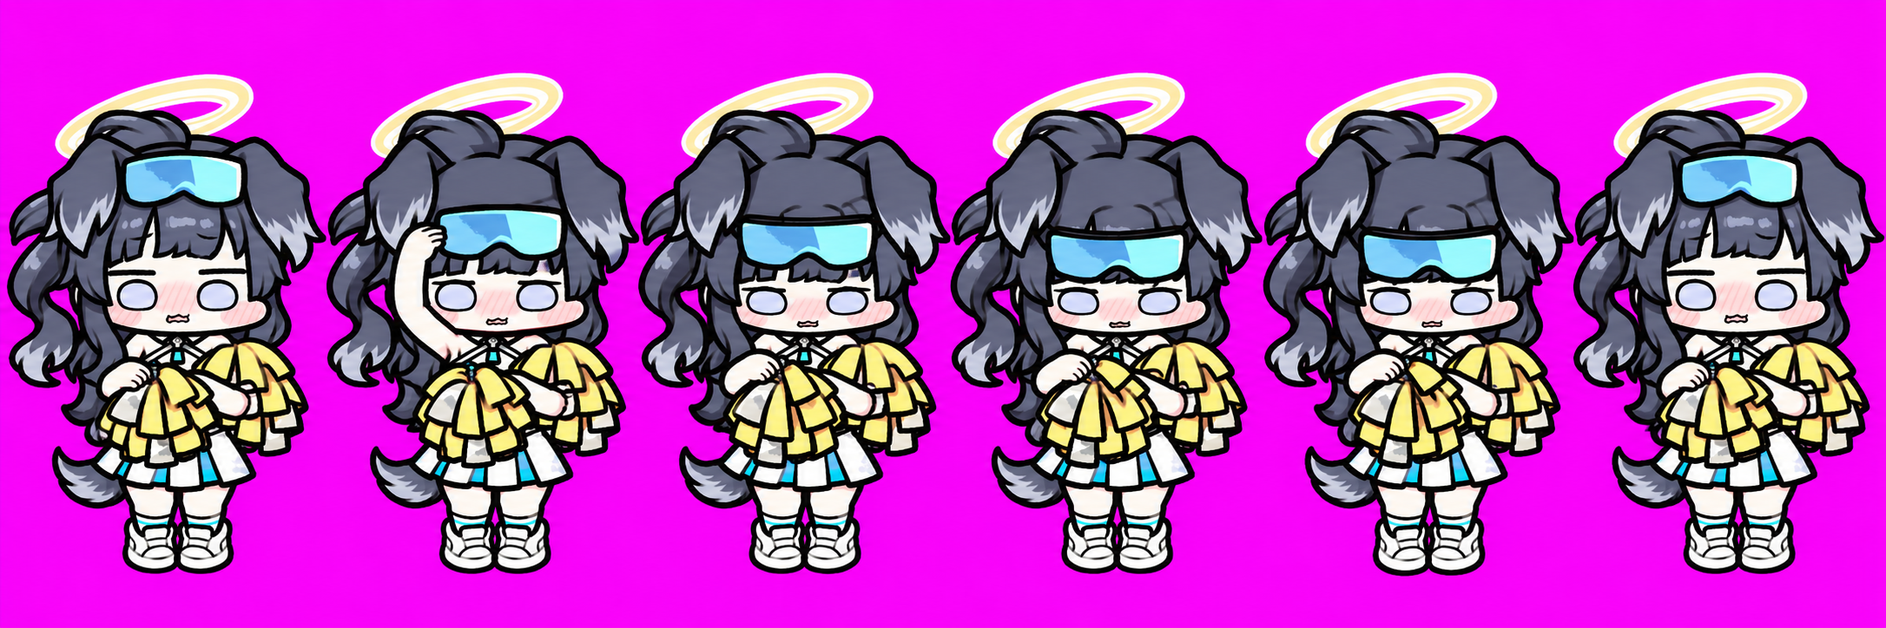
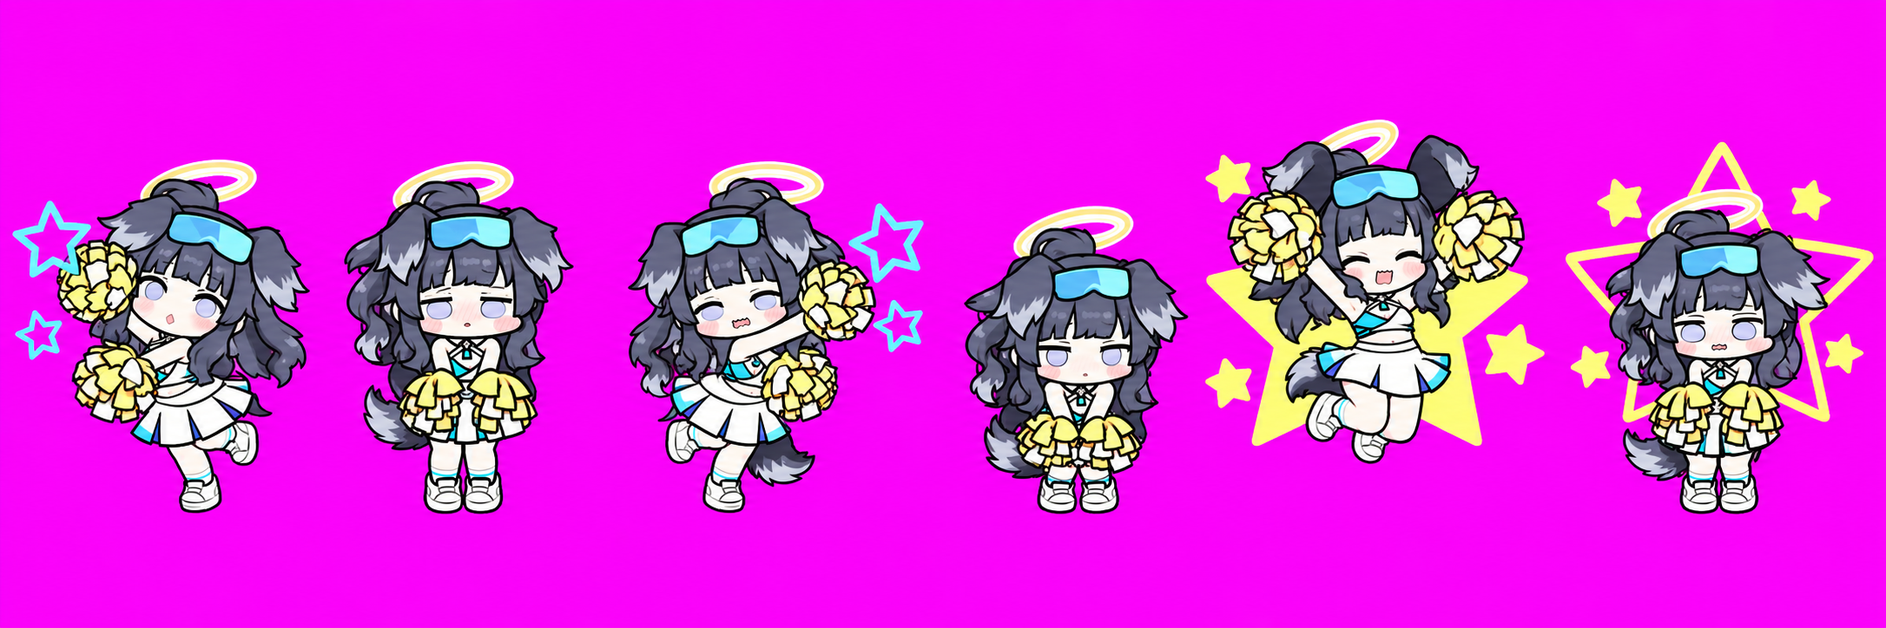
啦啦队响 v1.1

diff --git a/pets/hibiki-cheerleader-fullbody-handdrawn/creation/README.md b/pets/hibiki-cheerleader-fullbody-handdrawn/creation/README.md
@@ -1,46 +1,96 @@
-# 猫冢响 · 拉拉队服全身手绘的制作记录
+<p align="center"><sub>BEHIND THE PET</sub></p>
 
-## 形象与来源
+<h1 align="center">猫冢响 · 拉拉队服全身手绘 · 制作记录</h1>
 
-灰黑长发、狗耳与尾巴，青蓝护目镜搭配蓝白拉拉队服和黄白花球。用手绘粗线与二头身比例表现猫冢响的应援姿态。
+<p align="center">从一张参考图，到桌面上的小动作。</p>
 
-角色来自《蔚蓝档案 / Blue Archive》。参考插画与动作、表情截图由用户提供；部分插画作者尚未确认。角色及参考作品权利归原权利人。
+<p align="center"><b>v1.1 &nbsp; / &nbsp; 参考 · 提示词 · 高清原稿 · 成品</b></p>
 
-- [制作时保存的形象参考](references/reference-01.jpg)
-- [制作时保存的形象参考](references/reference-02.jpg)
+<p align="center"><a href="../README.md">看作品</a> &nbsp; · &nbsp; <a href="#动作设计与原稿">动作设计</a> &nbsp; · &nbsp; <a href="prompts/character.md">角色提示词</a> &nbsp; · &nbsp; <a href="../package/spritesheet.png">成品图集</a></p>
+
+## 形象从哪里来
+
+把猫冢响的拉拉队服形象做成一只二头身桌宠。灰黑长发、软软的狗耳、额前青蓝护目镜和淡金光环，配上蓝白制服与黄白花球；粗细略有起伏的深色线条、浅紫色眼睛和脸颊排线，保留她有些害羞的神情。
+
+角色为《蔚蓝档案 / Blue Archive》中的猫冢响（Nekozuka Hibiki）。制作参考包括收藏的角色插画、手绘风格图，以及应援动作和表情截图；部分插画作者尚未确认。桌宠通过 AI 辅助生成与后续整理制作；角色及参考作品的权利归原权利人。
+
+<table>
+<tr><td align="center" width="50%"><b>采用的主形象</b><br><a href="references/canonical-base.png"><img src="references/canonical-base.png" width="260" alt="采用的角色主形象参考"></a></td><td align="center" width="50%"><b>成品中的日常姿态</b><br><img src="../package/previews/idle.gif" width="192" alt="拉拉队响最终待机动作"></td></tr>
+</table>
+
+## 想保留下来的细节
+
+**完整的应援形象。** 狗耳、马尾、尾巴、护目镜与光环，围绕小小的全身轮廓保留下来。
+
+**花球贯穿日常。** 打招呼、等待、失落与检查，都由手中的两只花球参与表达。
+
+**认真为你加油。** 工作状态是一段应援舞：左右摆花球，蓄力跳起，蓝色与黄色星星跟着登场。
+
+## 制作思路
+
+先从参考中确定角色特征与手绘表达，保存[主形象提示词](prompts/character.md)和采用的角色主图。随后按动作分别生成连续姿态：日常动作保留各自的节奏，注视动作围绕同一套身体构图变化。
+
+生成阶段的高清图保存在 `materials/`，对应提示词保存在 `prompts/`。作品经过透明处理、选帧、位置与配色调整后，成为 `package/` 中的最终图集；下表把每个动作的想法、原稿和最终表现放在一起。原稿保留生成时的状态，部分可见用于去背景的纯色底。
+
+## 动作设计与原稿
+
+| 动作与成品 | 制作思路 | 提示词与高清原稿 |
+| :---: | --- | --- |
+| **待机**<br><img src="../package/previews/idle.gif" width="112" alt="拉拉队响待机"><br><sub>6 帧</sub> | 以主形象的低位花球站姿为起点，用眨眼与细小表情变化表现安静陪伴。 | [提示词](prompts/idle.md)<br>[高清原稿](../materials/idle.png) |
+| **向右跑**<br><img src="../package/previews/running-right.gif" width="112" alt="拉拉队响向右跑"><br><sub>8 帧</sub> | 保留手持花球的完整向右跑姿，步态、马尾和狗耳一起表达移动方向。 | [提示词](prompts/running-right.md)<br>[高清原稿](../materials/running-right.png) |
+| **向左跑**<br><img src="../package/previews/running-left.gif" width="112" alt="拉拉队响向左跑"><br><sub>8 帧</sub> | 保存独立的向左跑姿，让护目镜、制服与花球在侧向轮廓中仍然清楚可辨。 | [提示词](prompts/running-left.md)<br>[高清原稿](../materials/running-left.png) |
+| **挥手**<br><img src="../package/previews/waving.gif" width="112" alt="拉拉队响挥手"><br><sub>4 帧</sub> | 把一只花球举到脸旁再放下，让挥手成为符合拉拉队形象的招呼动作。 | [提示词](prompts/waving.md)<br>[高清原稿](../materials/waving.png) |
+| **跳跃**<br><img src="../package/previews/jumping.gif" width="112" alt="拉拉队响跳跃"><br><sub>5 帧</sub> | 抬起两只花球、离地、落回原处，形成一个短小直接的跳跃动作。 | [提示词](prompts/jumping.md)<br>[高清原稿](../materials/jumping.png) |
+| **失落**<br><img src="../package/previews/failed.gif" width="112" alt="拉拉队响失落"><br><sub>8 帧</sub> | 耳朵下垂、轻轻低头，再将花球拢到脸颊附近遮住害羞表情，停顿后逐步恢复。 | [提示词](prompts/failed.md)<br>[高清原稿](../materials/failed.png) |
+| **等待回应**<br><img src="../package/previews/waiting.gif" width="112" alt="拉拉队响等待回应"><br><sub>6 帧</sub> | 两只花球靠拢在低胸位置，抬头、歪头和眨眼表达期待；保持脸和嘴部可见。 | [提示词](prompts/waiting.md)<br>[高清原稿](../materials/waiting.png) |
+| **应援 · 工作状态**<br><img src="../package/previews/running.gif" width="112" alt="拉拉队响应援 · 工作状态"><br><sub>6 帧</sub> | 按“向左摆动 → 收回 → 向右摆动 → 蹲下蓄力 → 跳起 → 落地”组织六拍；侧摆配蓝色星星，跳起与落地配黄色星形。 | [提示词](prompts/running.md)<br>[高清原稿](../materials/running.png) |
+| **检查与思考**<br><img src="../package/previews/review.gif" width="112" alt="拉拉队响检查与思考"><br><sub>6 帧</sub> | 先查看两侧花球，再把画面右侧花球稍稍举到眼前，最后闭眼点头并回到低位站姿。 | [提示词](prompts/review.md)<br>[高清原稿](../materials/review.png) |
+| **十六方向注视**<br><img src="../package/previews/look-directions.gif" width="112" alt="拉拉队响十六方向注视"><br><sub>16 个方向姿态</sub> | 身体、花球与双脚保持正面站姿，脸部逐步俯仰和转向；浅紫色眼睛保持原来的画法，以头脸角度表达方向。从上方起，按每 22.5° 顺时针排列。 | [前八方向提示词](prompts/look-row-9.md)<br>[前八方向原稿](../materials/look-row-9.png)<br>[后八方向提示词](prompts/look-row-10.md)<br>[后八方向原稿](../materials/look-row-10.png) |
+
+### 应援动作的六拍
+
+**向左摆 → 收回 → 向右摆 → 蹲下蓄力 → 跳起 → 落地。**
+
+这段动作让“正在工作”变成一场小小的应援。蓝色星星出现在左右侧摆时；黄色星形在起跳时从身后展开，落地时延续余韵。花球、耳朵与尾巴跟随身体，保持原有的害羞表情和粗线条。它与普通的短跳跃分别保存，各有自己的节奏。
+
+## 参考收藏
+
+### 形象与画风
+
+- [角色形象参考](references/reference-01.jpg)
+- [手绘风格参考](references/reference-02.jpg)
 - [采用的角色主形象](references/canonical-base.png)
-- [后八方向的姿态参考](references/cardinal-left-focus-look-row-10.png)
-- [后八方向的角色特征参考](references/identity-board-look-row-10.png)
-- [前八方向的角色特征参考](references/identity-pair-look-row-9.png)
-- [采用的注视方向姿态参考](references/look-anchors-approved.png)
-- [透明高清主图](../materials/main.png)
-- [角色原始参考](references/source-illustrations/01.jpg)
-- [角色原始参考](references/source-illustrations/02.png)
-- [角色原始参考](references/source-illustrations/03.jpg)
-- [角色原始参考](references/source-illustrations/04.jpg)
-- [角色原始参考](references/source-illustrations/05.jpg)
-- [角色原始参考](references/source-illustrations/06.jpg)
+- [制作新动作时使用的既有图集](references/previous-design-atlas.png)
 
-[角色主形象提示词](prompts/character.md)记录整体风格、特征与构图要求。动作由保存的 imagegen 生成原稿制作，再进行去背景、选帧、位置调整和配色处理，形成[成品图集](../package/spritesheet.png)。
+### 应援动作与表情
 
-## 动作设计
+- [应援动作参考拼板](references/official-motion-board.png)
+- [应援表情参考拼板](references/official-expression-board.png)
 
-| 动作 | 制作思路 | 保存的资料 |
-| --- | --- | --- |
-| 待机 | 以安静呼吸、眨眼和细小表情作为日常姿态。 | [提示词](prompts/idle.md) · [高清原稿](../materials/idle.png) |
-| 向右跑 | 通过向右的步态表达移动，保留角色的发型和服装特征。 | [提示词](prompts/running-right.md) · [高清原稿](../materials/running-right.png) |
-| 向左跑 | 与向右跑形成对应的移动动作。 | [提示词](prompts/running-left.md) · [高清原稿](../materials/running-left.png) |
-| 挥手 | 以小幅挥手回应招呼，保持角色重心稳定。 | [提示词](prompts/waving.md) · [高清原稿](../materials/waving.png) |
-| 跳跃 | 表现起跳、腾空与落地的连续变化。 | [提示词](prompts/jumping.md) · [高清原稿](../materials/jumping.png) |
-| 失落 | 以克制的表情和姿态表达失落。 | [提示词](prompts/failed.md) · [高清原稿](../materials/failed.png) |
-| 等待 | 表现停顿、等待回应的状态。 | [提示词](prompts/waiting.md) · [高清原稿](../materials/waiting.png) |
-| 工作 / 应援 | 用花球摆动与跳跃表达应援。 | [提示词](prompts/running.md) · [高清原稿](../materials/running.png) |
-| 检查 / 思考 | 通过神情和小动作表现专注思考。 | [提示词](prompts/review.md) · [高清原稿](../materials/review.png) |
-| 注视方向 1–8 | 保留前八个方向的视线变化和角色特征。 | [提示词](prompts/look-row-9.md) · [高清原稿](../materials/look-row-9.png) |
-| 注视方向 9–16 | 补齐后八个方向，使十六方向形成完整一圈。 | [提示词](prompts/look-row-10.md) · [高清原稿](../materials/look-row-10.png) |
+### 注视方向
 
-提示词保留实际采用的文字。高清原稿保存生成阶段的细节，成品图集保存最终选择的帧与排列。
+- [采用的方向姿态参考](references/look-anchors-approved.png)
+- [前八方向角色特征板](references/identity-pair-look-row-9.png)
+- [后八方向角色特征板](references/identity-board-look-row-10.png)
+- [后八方向姿态参考](references/cardinal-left-focus-look-row-10.png)
 
-## v1.0
+[透明高清主图](../materials/main.png)也保存在素材目录，方便单独欣赏完整形象。
 
-建立拉拉队服全身手绘形象，完成九种动作和十六个注视方向。
+<details>
+<summary>展开原始插画与动作截图</summary>
+
+**角色插画**
+
+[参考 01](references/source-illustrations/01.jpg) · [参考 02](references/source-illustrations/02.png) · [参考 03](references/source-illustrations/03.jpg) · [参考 04](references/source-illustrations/04.jpg) · [参考 05](references/source-illustrations/05.jpg) · [参考 06](references/source-illustrations/06.jpg)
+
+**应援动作截图**
+
+[姿态 01](references/motion-stills/01.jpg) · [姿态 02](references/motion-stills/02.jpg) · [姿态 03](references/motion-stills/03.jpg) · [姿态 04](references/motion-stills/04.jpg) · [姿态 05](references/motion-stills/05.jpg) · [姿态 06](references/motion-stills/06.jpg) · [姿态 07](references/motion-stills/07.jpg) · [姿态 08](references/motion-stills/08.jpg) · [姿态 09](references/motion-stills/09.jpg)
+
+</details>
+
+## 当前作品
+
+v1.1 采用应援动作与表情参考，重新绘制工作状态：左右摆花球、收回蓄力、跳起和落地，并加入蓝色侧摆星星与黄色跳跃星形。其他动作沿用已有成品。
+
+[看完整作品](../README.md) · [高清原稿](../materials/) · [解包成品](../package/README.md)

diff --git a/README.md b/README.md
@@ -1,17 +1,81 @@
-# Hibiki · Cheerleader
+<p align="center"><sub>HIBIKI · CHEERLEADER PET</sub></p>
 
-把猫冢响的拉拉队服形象做成一只手绘桌宠，让花球、耳朵与小小的跳跃陪伴工作。
+<h1 align="center">猫冢响的桌面应援</h1>
 
-## 猫冢响 · 拉拉队服全身手绘
+<p align="center">有一点害羞，也会很认真地为你加油。</p>
 
-灰黑长发、狗耳与尾巴，青蓝护目镜搭配蓝白拉拉队服和黄白花球。用手绘粗线与二头身比例表现猫冢响的应援姿态。
+<p align="center"><b>全身手绘 &nbsp; / &nbsp; v1.1 &nbsp; / &nbsp; 09 种动作 &nbsp; / &nbsp; 16 个注视方向</b></p>
 
-![啦啦队响待机](pets/hibiki-cheerleader-fullbody-handdrawn/package/previews/idle.gif) ![啦啦队响挥手](pets/hibiki-cheerleader-fullbody-handdrawn/package/previews/waving.gif)
+<p align="center"><a href="#认识响">认识响</a> &nbsp; · &nbsp; <a href="#动作剧场">动作剧场</a> &nbsp; · &nbsp; <a href="pets/hibiki-cheerleader-fullbody-handdrawn/creation/README.md">制作记录</a> &nbsp; · &nbsp; <a href="https://github.com/MIBXR/hibiki-pet/releases/download/v1.1-hibiki-cheerleader-fullbody-handdrawn/hibiki-cheerleader-fullbody-handdrawn-portable.zip">下载 ZIP</a></p>
 
-**v1.0** · [作品与动作](pets/hibiki-cheerleader-fullbody-handdrawn/) · [制作记录](pets/hibiki-cheerleader-fullbody-handdrawn/creation/README.md) · [高清原稿](pets/hibiki-cheerleader-fullbody-handdrawn/materials/) · [下载便携包](https://github.com/MIBXR/pet-hibiki-cheerleader-fullbody-handdrawn/releases/tag/v1.0-hibiki-cheerleader-fullbody-handdrawn)
+<p align="center"><img src="pets/hibiki-cheerleader-fullbody-handdrawn/package/previews/idle.gif" width="192" alt="猫冢响安静待机"><img src="pets/hibiki-cheerleader-fullbody-handdrawn/package/previews/running.gif" width="192" alt="猫冢响摆动花球与星星应援"><img src="pets/hibiki-cheerleader-fullbody-handdrawn/package/previews/waving.gif" width="192" alt="猫冢响举起花球打招呼"></p>
 
-## 版本与来源
+## 认识响
 
-[全部版本](https://github.com/MIBXR/pet-hibiki-cheerleader-fullbody-handdrawn/releases)记录每款宠物的发布。对应提交保存那个版本的制作资料与作品文件。
+把猫冢响的拉拉队服形象做成一只二头身桌宠。灰黑长发、软软的狗耳、额前青蓝护目镜和淡金光环，配上蓝白制服与黄白花球；粗细略有起伏的深色线条、浅紫色眼睛和脸颊排线，保留她有些害羞的神情。
 
-角色来自《蔚蓝档案 / Blue Archive》。参考插画与动作、表情截图由用户提供；部分插画作者尚未确认。角色及参考作品权利归原权利人。
+她平时把花球放低，安静眨眼；等你时把两只花球拢到胸前，失落时又会拿它们遮住脸。轮到工作状态，就认真跳起一段带星星的应援舞。
+
+| 形象 | 表情 | 动作里的小道具 |
+| --- | --- | --- |
+| 二头身全身、狗耳与马尾、蓝白拉拉队服 | 浅紫眼睛、脸颊排线与害羞的小嘴 | 两只黄白花球、额前护目镜、淡金光环 |
+
+## 动作剧场
+
+九种日常动作全部展开，并附完整的十六方向注视。点击动图可以单独查看。
+
+<table>
+<tr>
+<td align="center" width="33%"><b>01 · 待机</b><br><a href="pets/hibiki-cheerleader-fullbody-handdrawn/package/previews/idle.gif"><img src="pets/hibiki-cheerleader-fullbody-handdrawn/package/previews/idle.gif" width="192" alt="拉拉队响：待机动作预览"></a><br><sub>花球放低，带着害羞的神情眨眼。</sub></td>
+<td align="center" width="33%"><b>02 · 向右跑</b><br><a href="pets/hibiki-cheerleader-fullbody-handdrawn/package/previews/running-right.gif"><img src="pets/hibiki-cheerleader-fullbody-handdrawn/package/previews/running-right.gif" width="192" alt="拉拉队响：向右跑动作预览"></a><br><sub>抱好花球，朝右迈开小步。</sub></td>
+<td align="center" width="33%"><b>03 · 向左跑</b><br><a href="pets/hibiki-cheerleader-fullbody-handdrawn/package/previews/running-left.gif"><img src="pets/hibiki-cheerleader-fullbody-handdrawn/package/previews/running-left.gif" width="192" alt="拉拉队响：向左跑动作预览"></a><br><sub>朝左出发，耳朵和马尾跟着动。</sub></td>
+</tr>
+<tr>
+<td align="center" width="33%"><b>04 · 挥手</b><br><a href="pets/hibiki-cheerleader-fullbody-handdrawn/package/previews/waving.gif"><img src="pets/hibiki-cheerleader-fullbody-handdrawn/package/previews/waving.gif" width="192" alt="拉拉队响：挥手动作预览"></a><br><sub>举起一只花球，和你打招呼。</sub></td>
+<td align="center" width="33%"><b>05 · 跳跃</b><br><a href="pets/hibiki-cheerleader-fullbody-handdrawn/package/previews/jumping.gif"><img src="pets/hibiki-cheerleader-fullbody-handdrawn/package/previews/jumping.gif" width="192" alt="拉拉队响：跳跃动作预览"></a><br><sub>花球一起抬起，轻轻跳一下。</sub></td>
+<td align="center" width="33%"><b>06 · 失落</b><br><a href="pets/hibiki-cheerleader-fullbody-handdrawn/package/previews/failed.gif"><img src="pets/hibiki-cheerleader-fullbody-handdrawn/package/previews/failed.gif" width="192" alt="拉拉队响：失落动作预览"></a><br><sub>低下头，用花球挡住害羞的脸。</sub></td>
+</tr>
+<tr>
+<td align="center" width="33%"><b>07 · 等待回应</b><br><a href="pets/hibiki-cheerleader-fullbody-handdrawn/package/previews/waiting.gif"><img src="pets/hibiki-cheerleader-fullbody-handdrawn/package/previews/waiting.gif" width="192" alt="拉拉队响：等待回应动作预览"></a><br><sub>把花球拢在胸前，抬头等回应。</sub></td>
+<td align="center" width="33%"><b>08 · 应援 · 工作状态</b><br><a href="pets/hibiki-cheerleader-fullbody-handdrawn/package/previews/running.gif"><img src="pets/hibiki-cheerleader-fullbody-handdrawn/package/previews/running.gif" width="192" alt="拉拉队响：应援 · 工作状态动作预览"></a><br><sub>左右摆花球，跳起时亮出星星。</sub></td>
+<td align="center" width="33%"><b>09 · 检查与思考</b><br><a href="pets/hibiki-cheerleader-fullbody-handdrawn/package/previews/review.gif"><img src="pets/hibiki-cheerleader-fullbody-handdrawn/package/previews/review.gif" width="192" alt="拉拉队响：检查与思考动作预览"></a><br><sub>看看两只花球，再满意地点头。</sub></td>
+</tr>
+</table>
+
+<table>
+<tr>
+<td align="center" width="33%"><b>10 · 十六方向注视</b><br><a href="pets/hibiki-cheerleader-fullbody-handdrawn/package/previews/look-directions.gif"><img src="pets/hibiki-cheerleader-fullbody-handdrawn/package/previews/look-directions.gif" width="192" alt="拉拉队响：十六方向注视依次展示"></a></td>
+<td><b>抬头、转向，再低头看看。</b><br><br>身体、花球与双脚保持正面站姿，脸部逐步俯仰和转向；浅紫色眼睛保持原来的画法，以头脸角度表达方向。<br><br><sub>GIF 从上方开始，按顺时针依次展示 16 个方向。实际跟随与动作触发由桌宠应用决定。</sub></td>
+</tr>
+</table>
+
+## 一段小小的应援
+
+**向左摆动 → 收回 → 向右摆动 → 蹲下蓄力 → 跳起 → 落地。**
+
+v1.1 的工作动作按这六拍展开。侧摆时出现蓝色星星，跳起时黄色星形在身后绽开；耳朵、马尾和花球一起跟随动作，最后回到可以继续循环的站姿。
+
+[看看这段动作的提示词](pets/hibiki-cheerleader-fullbody-handdrawn/creation/prompts/running.md) · [查看高清生成原稿](pets/hibiki-cheerleader-fullbody-handdrawn/materials/running.png) · [查看动作与表情参考](pets/hibiki-cheerleader-fullbody-handdrawn/creation/README.md#应援动作与表情)
+
+## 创作收藏
+
+作品由 Codex 与 AI 生图辅助完成。这里同时保存成品与制作时采用的资料：从角色参考和每个动作的想法，到高清原稿，再到透明图集。
+
+| 想看什么 | 从这里开始 |
+| --- | --- |
+| 制作来源、参考与每个动作的想法 | [制作记录](pets/hibiki-cheerleader-fullbody-handdrawn/creation/README.md) |
+| 实际采用的角色与动作提示词 | [提示词收藏](pets/hibiki-cheerleader-fullbody-handdrawn/creation/prompts/) |
+| 生成阶段保留的高清动作原稿 | [高清素材](pets/hibiki-cheerleader-fullbody-handdrawn/materials/) |
+| 最终图集、桌宠信息与逐动作 GIF | [解包成品](pets/hibiki-cheerleader-fullbody-handdrawn/package/README.md) |
+
+[透明高清主图](pets/hibiki-cheerleader-fullbody-handdrawn/materials/main.png)保留了完整的角色形象，可以单独欣赏线条、服装与花球细节。
+
+## 带她回到桌面
+
+**[下载 v1.1 便携包](https://github.com/MIBXR/hibiki-pet/releases/download/v1.1-hibiki-cheerleader-fullbody-handdrawn/hibiki-cheerleader-fullbody-handdrawn-portable.zip)** · [查看发布页](https://github.com/MIBXR/hibiki-pet/releases/tag/v1.1-hibiki-cheerleader-fullbody-handdrawn) · [浏览全部版本](https://github.com/MIBXR/hibiki-pet/releases)
+
+便携包包含 sprite v2 正式图集、必要的桌宠信息和逐动作 GIF；交给支持该格式的桌宠应用或 Agent 导入。每个已发布版本都保留了对应的作品提交与下载包。
+
+## 来源与署名
+
+角色为《蔚蓝档案 / Blue Archive》中的猫冢响（Nekozuka Hibiki）。制作参考包括收藏的角色插画、手绘风格图，以及应援动作和表情截图；部分插画作者尚未确认。桌宠通过 AI 辅助生成与后续整理制作；角色及参考作品的权利归原权利人。

diff --git a/pets/hibiki-cheerleader-fullbody-handdrawn/creation/prompts/running.md b/pets/hibiki-cheerleader-fullbody-handdrawn/creation/prompts/running.md
@@ -1,12 +1,16 @@
-Use case: stylized-concept. Asset: one SIX-frame horizontal animation strip, state running meaning active WORK.
-Input 1 canonical base is authoritative for Hibiki identity, scale, outfit, props and line style. Input 2 reinforces identity and solid pale lavender eyes. Input 3 supports thick rough hand-drawn chibi style only; do not copy other characters/outfits. Input 4 is invisible SIX-slot spacing guidance only, never render its lines.
+Use case: identity-preserve; hand-drawn animated sprite strip.
+Create one coherent horizontal SIX-frame cheer cycle for the existing Hibiki cheerleader pet. This is only her running/active-work animation, not a complete atlas. Flat pure magenta #FF00FF background, no transparency in the source strip. Prefer a 3:1 source canvas with generous magenta gutters between all six complete pose groups and safe outer margins. No visible panels, boxes, labels, text or guide marks.
 
-Exactly SIX separated, complete full-body poses in ONE horizontal left-to-right row on flat pure magenta #FF00FF. One centered pet per invisible equal-width slot; generous safe margin around hair, overlapping halo, held pom-poms, tail and shoes. Keep head/body size, torso center, waist, skirt, both feet and shoe baseline stable in all six. Feet remain firmly planted together, front-facing. Motion comes from focused head pitch, goggles and purposeful attached hands; no foot running, walking, lifted knees, long steps or body travel.
+REFERENCE ROLES: image1 is the freshly fetched existing pet atlas, authoritative identity/proportions/palette; image2 is the official six-pose motion board, ONLY for gestures and ear/tail follow-through; image3 is official expression/finale closeups, ONLY mouth shapes and star effect concept; image4 is the invisible six-slot layout guide, for order/separation only; image5 is the large hand-drawn canonical base and PRIMARY STYLE AUTHORITY. The new art must look like image5 and the existing atlas, NOT the official 3D game models or realistic anime faces. Preserve rough thick slightly irregular charcoal-black outlines, flat restrained colors, warm cream rounded-square chibi face, two-head full-body proportions, SOLID pale lavender-gray eye disks with absolutely NO pupils or added iris highlights, pink hatched blush, slate gray-black chunky hair highlights, blunt bangs, long ponytail, floppy gray-tipped DOG ears, cyan goggles on forehead, compact overlapping pale-gold ring halo, modest compact blue-white cross-strap top, white pleated skirt with cyan panels, white chunky sneakers, gray dog tail and exactly two yellow-white ribbon pom-poms physically held in her hands. No hair restyle, no outfit restyle, no smooth 3D shading, no anatomical breast contours.
 
-Hibiki is deliberately fixing the handle/ribbon base of her EXISTING yellow-white pom-pom. One hand holds that working pom-pom near the upper waist. Her other forearm securely cradles the second pom-pom against her body so that arm's small fingers can adjust the first pom-pom. BOTH pom-poms remain physically held or cradled and touching hand/forearm at every instant. Show small simple readable attached hands, never extra hands.
+USER-REQUESTED SPECIAL EFFECTS ARE INTENTIONAL: include detached BLUE outlined stars on the side swings, and a MUCH LARGER YELLOW five-point star expanding BEHIND the character during the jump finale, accompanied by a few smaller stars. Draw effects as clean, opaque, hand-inked flat-color star shapes in the same drawing style. Hollow blue stars have magenta removable interiors. No diffuse glow, motion blur, speed streaks, dust, shadows, confetti dots, game UI, stadium, crowd, pole, floor, floating punctuation or new props. The screenshots' game setting is not part of the sprite. Keep every complete effect inside its own pose group and invisible cell envelope. Small stars must be bold/readable rather than tiny specks. Keep the large yellow star overlapping the character silhouette from BEHIND, never covering her face or outfit. Reserve clear space beneath effects so the shoes remain the lowest part of each pose.
 
-Six chronological poses: 1 goggles on forehead; head starts looking down toward the working pom-pom, hands prepare at its ribbon base. 2 the free small fingertips lower the SAME cyan goggles just slightly toward the brow, while the same forearm still cradles its second pom-pom. Keep solid pale lavender eyes visible through or immediately below the goggles. 3 focused fingers pinch the existing ribbon/handle base of the first pom-pom, visibly beginning an adjustment. 4 fingers turn/straighten that same ribbon base, a small purposeful change in hand position, concentrated tiny mouth. 5 she studies the correction with the adjusting fingers still lightly in contact. 6 release the adjusting fingertips, goggles return near forehead, hands/head settle nearly to pose 1. This is active hand manipulation, not simply inspecting or nodding.
+EXACT LEFT-TO-RIGHT SIX-BEAT STORYBOARD (LEFT and RIGHT mean the viewer/canvas edges):
+1. LEFT SWING: torso leans mildly canvas-left, BOTH held pompoms extend toward LEFT at two different heights, one near the left side of her head and the other toward chest/waist height. One knee bends behind in a planted cheer pose, not traveling/running. Mouth is a tiny open DIAMOND. Eyes retain original solid lavender construction, shy brows and blush. Floppy ears and tail trail the swing with soft motion. TWO blue outlined stars appear beside the LEFT swing, clearly near the left pompoms.
+2. FIRST RETRACT: return to centered grounded body, elbows fold, bring the pompoms together in front of the waist; head lowers slightly, knees relax. Diamond mouth closes to a tiny mark. Ears and tail rebound toward rest. Left blue stars become smaller/lighter or fade; no yellow burst yet.
+3. RIGHT SWING: torso leans mildly canvas-right, BOTH held pompoms extend toward RIGHT in a high/low arrangement, opposite knee bends behind. Mouth is a shy OPEN shape, small softly irregular rounded/wavy opening, visibly different from the left diamond; stronger blush and gentle worried/shy brows. Ears and tail lag toward the opposite side. TWO blue outlined stars appear beside the RIGHT swing. Do NOT repeat the left pose.
+4. SECOND RETRACT / CROUCH: centered forward-facing body, pompoms held together LOW in front, head bows and knees visibly compress for a jump. Feet remain on the grounded baseline. Ears droop/compress and tail curls with the crouch. Right blue stars diminish and fade away. Mouth is a tiny closed mark. No large star yet.
+5. BIG JUMP: a real upward lift, both shoes clearly ABOVE the resting ground; knees tuck, one leg may bend more than the other. Raise BOTH pompoms in a celebratory wide V beside/above head. Dog ears lift and spring, ponytail/tail lag then bounce. A shy open cheering mouth and blush, original eye construction (gentle closed-eye arcs acceptable for this excited instant). A large YELLOW five-point STAR blooms BEHIND her torso/head, its tips visible around her silhouette, with a few smaller yellow stars around it. Preserve the same head/body drawing scale; shorten bent legs physically rather than shrinking the character. Leave enough top clearance so halo, ears and pompoms are complete.
+6. LANDING / EXPANDED STAR AFTERBEAT: feet return to the SAME grounded baseline as beats1-4, knees absorb landing and hands/pompoms lower toward the centered rest pose ready to swing left again. Ears flop outward then settle, tail overshoots softly. Mouth returns toward the original tiny shy w-shape. The large yellow star spreads MORE WIDELY behind her than in beat5, becoming a paler yellow outline/expanded shape, and the smaller stars spread around it and fade. The character stays fully readable in front. Keep all star tips above the feet and safely inside the pose envelope. This landing is necessary for a seamless recurring cheer cycle.
 
-Preserve exact canonical compact two-head chibi proportions, warm cream rounded-square face, gray-black blunt bangs and long wavy ponytail, BOTH gray floppy dog ears, gray dog tail, pale lavender solid circular eyes WITHOUT pupils, pink hatched blush, cyan wraparound goggles, compact gold oval halo overlapping hair/ear silhouette, blue-white cross-strap cheer top, white-cyan pleated skirt, chunky white sneakers, yellow-white ribbon pom-poms. Match very thick slightly irregular black hand-drawn ink, flat restrained palette and chunky gray hair highlights.
-
-No new tools, wrenches, laptop, screens, papers, magnifying glass, detached props, loose ribbons, text, labels, guide boxes/marks, floor, shadows, glow, motion lines, icons, sweat, tears, scenery or gradients. Every non-background pixel belongs to the connected complete pet.
+GEOMETRY: exactly SIX complete characters in this order. One shared character scale and head size across all six. Same imaginary grounded shoe line for beats1,2,3,4,6; beat5 is physically airborne above it. Crouch and bent knees must change pose, not raster scale. Body remains within a compact forward-facing cheer family with natural slight lean; do not turn into a side-view walking gait. Hands and flower balls stay connected. Approximate equal six-slot spacing; every pose plus all its stars must be separated from neighbors by generous pure-magenta-only gutters. No overlap/touch between neighboring pose groups, no source-edge clipping. Source height leaves top room for the jump and widest star expansion. Keep stars compact enough that the visible character remains the SAME readable size as the current pet after native 192x208 assembly.

diff --git a/pets/hibiki-cheerleader-fullbody-handdrawn/README.md b/pets/hibiki-cheerleader-fullbody-handdrawn/README.md
@@ -1,16 +1,73 @@
-# 猫冢响 · 拉拉队服全身手绘
+<p align="center"><sub>HIBIKI · CHEERLEADER</sub></p>
 
-灰黑长发、狗耳与尾巴，青蓝护目镜搭配蓝白拉拉队服和黄白花球。用手绘粗线与二头身比例表现猫冢响的应援姿态。
+<h1 align="center">猫冢响 · 拉拉队服全身手绘</h1>
 
-**v1.0** · [下载便携包](https://github.com/MIBXR/pet-hibiki-cheerleader-fullbody-handdrawn/releases/tag/v1.0-hibiki-cheerleader-fullbody-handdrawn) · [制作记录与提示词](creation/README.md) · [高清素材](materials/) · [成品文件](package/)
+<p align="center">有一点害羞，也会很认真地为你加油。</p>
 
-| 动作 | 预览 |
+<p align="center"><b>v1.1 &nbsp; / &nbsp; 9 种日常动作 &nbsp; / &nbsp; 16 个注视方向</b></p>
+
+<p align="center"><a href="#全部动作">完整动作</a> &nbsp; · &nbsp; <a href="creation/README.md">创作记录</a> &nbsp; · &nbsp; <a href="materials/">高清原稿</a> &nbsp; · &nbsp; <a href="https://github.com/MIBXR/hibiki-pet/releases/download/v1.1-hibiki-cheerleader-fullbody-handdrawn/hibiki-cheerleader-fullbody-handdrawn-portable.zip">下载 ZIP</a></p>
+
+<p align="center"><img src="package/previews/idle.gif" width="192" alt="拉拉队响待机"><img src="package/previews/running.gif" width="192" alt="拉拉队响工作状态"></p>
+
+把猫冢响的拉拉队服形象做成一只二头身桌宠。灰黑长发、软软的狗耳、额前青蓝护目镜和淡金光环，配上蓝白制服与黄白花球；粗细略有起伏的深色线条、浅紫色眼睛和脸颊排线，保留她有些害羞的神情。
+
+## 她的模样
+
+**完整的应援形象。** 狗耳、马尾、尾巴、护目镜与光环，围绕小小的全身轮廓保留下来。
+
+**花球贯穿日常。** 打招呼、等待、失落与检查，都由手中的两只花球参与表达。
+
+**认真为你加油。** 工作状态是一段应援舞：左右摆花球，蓄力跳起，蓝色与黄色星星跟着登场。
+
+## 全部动作
+
+九种日常动作全部展开，随后是一圈完整的注视方向。点击任意动图可以单独查看。
+
+<table>
+<tr>
+<td align="center" width="33%"><b>01 · 待机</b><br><a href="package/previews/idle.gif"><img src="package/previews/idle.gif" width="192" alt="拉拉队响：待机动作预览"></a><br><sub>花球放低，带着害羞的神情眨眼。</sub></td>
+<td align="center" width="33%"><b>02 · 向右跑</b><br><a href="package/previews/running-right.gif"><img src="package/previews/running-right.gif" width="192" alt="拉拉队响：向右跑动作预览"></a><br><sub>抱好花球，朝右迈开小步。</sub></td>
+<td align="center" width="33%"><b>03 · 向左跑</b><br><a href="package/previews/running-left.gif"><img src="package/previews/running-left.gif" width="192" alt="拉拉队响：向左跑动作预览"></a><br><sub>朝左出发，耳朵和马尾跟着动。</sub></td>
+</tr>
+<tr>
+<td align="center" width="33%"><b>04 · 挥手</b><br><a href="package/previews/waving.gif"><img src="package/previews/waving.gif" width="192" alt="拉拉队响：挥手动作预览"></a><br><sub>举起一只花球，和你打招呼。</sub></td>
+<td align="center" width="33%"><b>05 · 跳跃</b><br><a href="package/previews/jumping.gif"><img src="package/previews/jumping.gif" width="192" alt="拉拉队响：跳跃动作预览"></a><br><sub>花球一起抬起，轻轻跳一下。</sub></td>
+<td align="center" width="33%"><b>06 · 失落</b><br><a href="package/previews/failed.gif"><img src="package/previews/failed.gif" width="192" alt="拉拉队响：失落动作预览"></a><br><sub>低下头，用花球挡住害羞的脸。</sub></td>
+</tr>
+<tr>
+<td align="center" width="33%"><b>07 · 等待回应</b><br><a href="package/previews/waiting.gif"><img src="package/previews/waiting.gif" width="192" alt="拉拉队响：等待回应动作预览"></a><br><sub>把花球拢在胸前，抬头等回应。</sub></td>
+<td align="center" width="33%"><b>08 · 应援 · 工作状态</b><br><a href="package/previews/running.gif"><img src="package/previews/running.gif" width="192" alt="拉拉队响：应援 · 工作状态动作预览"></a><br><sub>左右摆花球，跳起时亮出星星。</sub></td>
+<td align="center" width="33%"><b>09 · 检查与思考</b><br><a href="package/previews/review.gif"><img src="package/previews/review.gif" width="192" alt="拉拉队响：检查与思考动作预览"></a><br><sub>看看两只花球，再满意地点头。</sub></td>
+</tr>
+</table>
+
+<table>
+<tr>
+<td align="center" width="33%"><b>10 · 十六方向注视</b><br><a href="package/previews/look-directions.gif"><img src="package/previews/look-directions.gif" width="192" alt="拉拉队响：十六方向注视依次展示"></a></td>
+<td><b>抬头、转向，再低头看看。</b><br><br>身体、花球与双脚保持正面站姿，脸部逐步俯仰和转向；浅紫色眼睛保持原来的画法，以头脸角度表达方向。<br><br><sub>GIF 从上方开始，按顺时针依次展示 16 个方向。实际跟随与动作触发由桌宠应用决定。</sub></td>
+</tr>
+</table>
+
+## 这一版的小细节
+
+v1.1 采用应援动作与表情参考，重新绘制工作状态：左右摆花球、收回蓄力、跳起和落地，并加入蓝色侧摆星星与黄色跳跃星形。其他动作沿用已有成品。
+
+[查看 v1.1 发布页](https://github.com/MIBXR/hibiki-pet/releases/tag/v1.1-hibiki-cheerleader-fullbody-handdrawn) · [浏览全部发布](https://github.com/MIBXR/hibiki-pet/releases)
+
+## 从参考到成品
+
+这里保留角色来源、采用的提示词、生成原稿和最终成品，方便沿着一个动作继续看下去。
+
+| 想看什么 | 从这里开始 |
 | --- | --- |
-| 待机 | ![待机](package/previews/idle.gif) |
-| 挥手 | ![挥手](package/previews/waving.gif) |
-| 应援 | ![应援](package/previews/running.gif) |
-| 十六方向注视 | ![十六方向注视](package/previews/look-directions.gif) |
+| 制作来源、参考与每个动作的想法 | [制作记录](creation/README.md) |
+| 实际采用的角色与动作提示词 | [提示词收藏](creation/prompts/) |
+| 生成阶段保留的高清动作原稿 | [高清素材](materials/) |
+| 最终图集、桌宠信息与逐动作 GIF | [解包成品](package/README.md) |
 
-建立拉拉队服全身手绘形象，完成九种动作和十六个注视方向。
+## 来源与署名
 
-角色来自《蔚蓝档案 / Blue Archive》。参考插画与动作、表情截图由用户提供；部分插画作者尚未确认。角色及参考作品权利归原权利人。
+角色为《蔚蓝档案 / Blue Archive》中的猫冢响（Nekozuka Hibiki）。制作参考包括收藏的角色插画、手绘风格图，以及应援动作和表情截图；部分插画作者尚未确认。桌宠通过 AI 辅助生成与后续整理制作；角色及参考作品的权利归原权利人。
+
+[返回作品首页](../../README.md)

diff --git a/pets/hibiki-cheerleader-fullbody-handdrawn/package/README.md b/pets/hibiki-cheerleader-fullbody-handdrawn/package/README.md
@@ -1,11 +1,59 @@
-# 猫冢响 · 拉拉队服全身手绘
+<p align="center"><sub>PORTABLE PET · FINISHED ARTWORK</sub></p>
 
-v1.0 · 灰黑长发、狗耳与尾巴，青蓝护目镜搭配蓝白拉拉队服和黄白花球。用手绘粗线与二头身比例表现猫冢响的应援姿态。
+<h1 align="center">猫冢响 · 拉拉队服全身手绘</h1>
 
-本包包含可导入的 `spritesheet.png`、名称与描述等信息 `pet.json`，以及 `previews/` 中的逐动作 GIF。
+<p align="center">有一点害羞，也会很认真地为你加油。</p>
 
-图集采用 sprite v2：1536×2288 像素，8 列×11 行，单格 192×208，包含九种动作和十六个注视方向。作品版本 v1.0 与图集协议版本是两回事。
+<p align="center"><b>v1.1 &nbsp; / &nbsp; sprite v2 &nbsp; / &nbsp; 透明 PNG + 动作 GIF</b></p>
 
-将本包交给支持 sprite v2 的桌宠应用或 Agent，读取 `pet.json` 后导入原始 PNG。是否启用由你选择；GIF 用于观看动作。
+<p align="center"><a href="#动作预览">全部动作</a> &nbsp; · &nbsp; <a href="spritesheet.png">正式图集</a> &nbsp; · &nbsp; <a href="pet.json">桌宠信息</a> &nbsp; · &nbsp; <a href="https://github.com/MIBXR/hibiki-pet/releases/tag/v1.1-hibiki-cheerleader-fullbody-handdrawn">发布页</a></p>
 
-角色来自《蔚蓝档案 / Blue Archive》。参考插画与动作、表情截图由用户提供；部分插画作者尚未确认。角色及参考作品权利归原权利人。
+把猫冢响的拉拉队服形象做成一只二头身桌宠。灰黑长发、软软的狗耳、额前青蓝护目镜和淡金光环，配上蓝白制服与黄白花球；粗细略有起伏的深色线条、浅紫色眼睛和脸颊排线，保留她有些害羞的神情。
+
+## 动作预览
+
+<table>
+<tr>
+<td align="center" width="33%"><b>01 · 待机</b><br><a href="previews/idle.gif"><img src="previews/idle.gif" width="144" alt="拉拉队响：待机动作预览"></a><br><sub>花球放低，带着害羞的神情眨眼。</sub></td>
+<td align="center" width="33%"><b>02 · 向右跑</b><br><a href="previews/running-right.gif"><img src="previews/running-right.gif" width="144" alt="拉拉队响：向右跑动作预览"></a><br><sub>抱好花球，朝右迈开小步。</sub></td>
+<td align="center" width="33%"><b>03 · 向左跑</b><br><a href="previews/running-left.gif"><img src="previews/running-left.gif" width="144" alt="拉拉队响：向左跑动作预览"></a><br><sub>朝左出发，耳朵和马尾跟着动。</sub></td>
+</tr>
+<tr>
+<td align="center" width="33%"><b>04 · 挥手</b><br><a href="previews/waving.gif"><img src="previews/waving.gif" width="144" alt="拉拉队响：挥手动作预览"></a><br><sub>举起一只花球，和你打招呼。</sub></td>
+<td align="center" width="33%"><b>05 · 跳跃</b><br><a href="previews/jumping.gif"><img src="previews/jumping.gif" width="144" alt="拉拉队响：跳跃动作预览"></a><br><sub>花球一起抬起，轻轻跳一下。</sub></td>
+<td align="center" width="33%"><b>06 · 失落</b><br><a href="previews/failed.gif"><img src="previews/failed.gif" width="144" alt="拉拉队响：失落动作预览"></a><br><sub>低下头，用花球挡住害羞的脸。</sub></td>
+</tr>
+<tr>
+<td align="center" width="33%"><b>07 · 等待回应</b><br><a href="previews/waiting.gif"><img src="previews/waiting.gif" width="144" alt="拉拉队响：等待回应动作预览"></a><br><sub>把花球拢在胸前，抬头等回应。</sub></td>
+<td align="center" width="33%"><b>08 · 应援 · 工作状态</b><br><a href="previews/running.gif"><img src="previews/running.gif" width="144" alt="拉拉队响：应援 · 工作状态动作预览"></a><br><sub>左右摆花球，跳起时亮出星星。</sub></td>
+<td align="center" width="33%"><b>09 · 检查与思考</b><br><a href="previews/review.gif"><img src="previews/review.gif" width="144" alt="拉拉队响：检查与思考动作预览"></a><br><sub>看看两只花球，再满意地点头。</sub></td>
+</tr>
+</table>
+
+<table>
+<tr>
+<td align="center" width="33%"><b>10 · 十六方向注视</b><br><a href="previews/look-directions.gif"><img src="previews/look-directions.gif" width="144" alt="拉拉队响：十六方向注视依次展示"></a></td>
+<td><b>抬头、转向，再低头看看。</b><br><br>身体、花球与双脚保持正面站姿，脸部逐步俯仰和转向；浅紫色眼睛保持原来的画法，以头脸角度表达方向。<br><br><sub>GIF 从上方开始，按顺时针依次展示 16 个方向。实际跟随与动作触发由桌宠应用决定。</sub></td>
+</tr>
+</table>
+
+## 带走的内容
+
+| 文件 | 内容 |
+| --- | --- |
+| [spritesheet.png](spritesheet.png) | 带透明背景的正式图集，保存最终动作与注视姿态。 |
+| [pet.json](pet.json) | 宠物名称、描述、作品版本，以及图集尺寸和帧排列等必要信息。 |
+| [previews/](previews/) | 九种动作 GIF 与一张十六方向注视 GIF，便于直接欣赏。 |
+| README.md | 作品介绍、动作展示与简短使用说明。 |
+
+## 放到桌面上
+
+将完整文件夹交给支持 sprite v2 的桌宠应用或 Agent，读取 `pet.json` 并导入原始 `spritesheet.png`。是否设为当前桌宠由你选择；预览 GIF 用于观看动作，实际触发与播放节奏由应用决定。
+
+图集为 **1536 × 2288** 像素，**8 列 × 11 行**，单格 **192 × 208**；包含九种日常动作和十六个注视方向。作品版本与 sprite 协议版本分别标注。
+
+## 来源与署名
+
+角色为《蔚蓝档案 / Blue Archive》中的猫冢响（Nekozuka Hibiki）。制作参考包括收藏的角色插画、手绘风格图，以及应援动作和表情截图；部分插画作者尚未确认。桌宠通过 AI 辅助生成与后续整理制作；角色及参考作品的权利归原权利人。
+
+[完整创作记录](https://github.com/MIBXR/hibiki-pet/tree/main/pets/hibiki-cheerleader-fullbody-handdrawn/creation)
